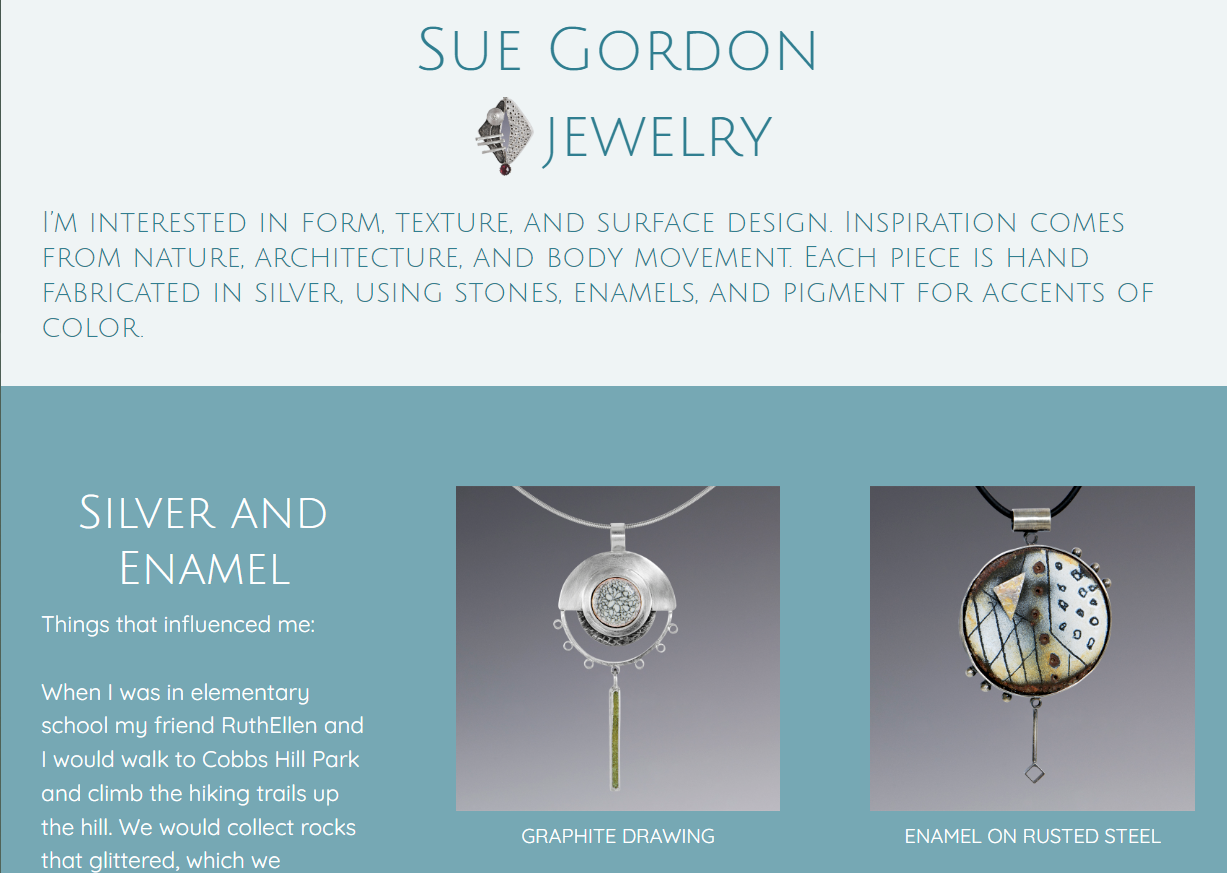
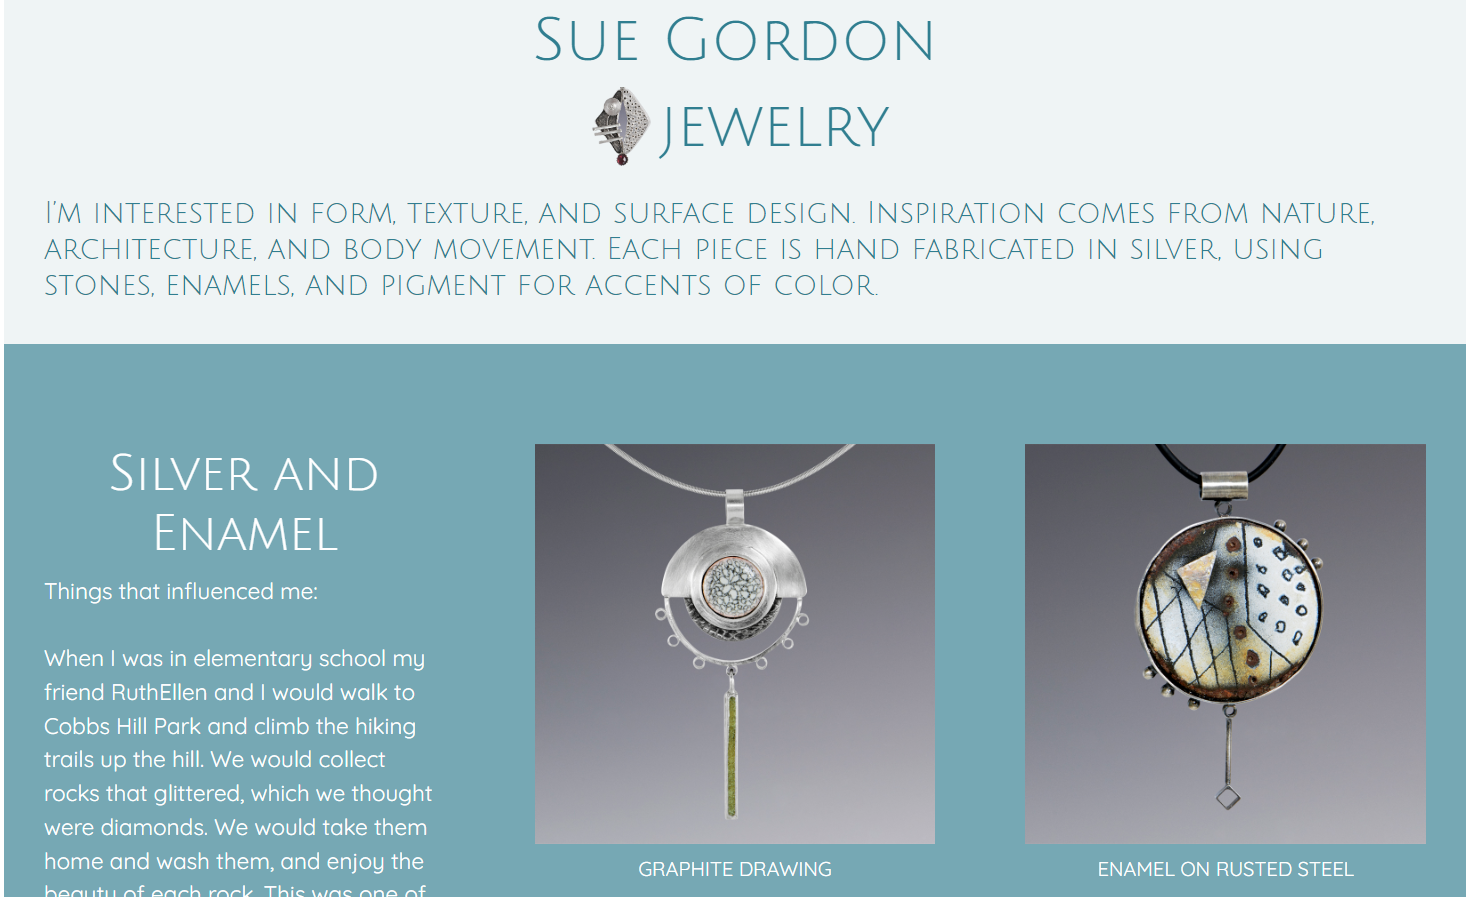
add two new website

Changed region(s): [[0.0, 0.0, 1.0, 1.0], [0.3407, 0.4948, 0.6504, 0.9897]]

diff --git a/index.html b/index.html
@@ -7,16 +7,19 @@
     <meta name="author" content="tosca ragnini"/>
     <link rel="icon" type="image/png" href="favicon.png" />
     <link href="css/main.css" rel="stylesheet" type="text/css">
+    <link rel="preconnect" href="https://fonts.googleapis.com">
+    <link rel="preconnect" href="https://fonts.gstatic.com" crossorigin>
+    <link href="https://fonts.googleapis.com/css2?family=Poiret+One&display=swap" rel="stylesheet">
     <link href="https://cdn.jsdelivr.net/npm/bootstrap@5.2.2/dist/css/bootstrap.min.css" rel="stylesheet" integrity="sha384-Zenh87qX5JnK2Jl0vWa8Ck2rdkQ2Bzep5IDxbcnCeuOxjzrPF/et3URy9Bv1WTRi" crossorigin="anonymous"> <link rel="stylesheet" href="https://fonts.googleapis.com/css?family=Raleway">
 </head>
-<body>
-    <div class="clearfix">           
-       <img src="img/ppw-baner.png" class="img-fluid d-block pt-5 mx-auto" alt="tosca Ragnini - web designer"> 
-   </div>
+<body>           
+     <img src="img/ppw-baner.png" class="img-fluid d-block pt-3 mx-auto" alt="tosca Ragnini - web designer"> 
     <div class="featured">
+        <img src="img/feature-banner.2022.png" class="img-fluid d-block pt-3 mx-auto" alt="tosca Ragnini - web designer"> 
+   
             <!--Lisa Ehrich-->
-            <section class="container pt-5">
-                <div class="row p-4 mt--2 mb-5">
+            <section class="container pt-4">
+                <div class="row p-4 mb-4">
                     <div class="col-sm-12 showcase-single-content shadow">
                         <div class="row" id="lisa">
                             <div class="col-sm-6 text-left showcase-single-item-wrap">
@@ -27,7 +30,7 @@
                                     </div>
                                 </div>
                             </div>
-                            <div class="col-sm-6 text-left mt-3 showcase-single-item-wrap">
+                            <div class="col-sm-6 text-left showcase-single-item-wrap">
                                 <div class="showcase-single-item">
                                     <div class="showcase-single-item-inner">
                                         <h3>website features</h3>
@@ -41,11 +44,10 @@
                             </div>
                         </div>
                     </div>
-                </div>           
-            </section>
-            <!--DRISCOLL-->
-            <section class="container">
-                <div class="row p-4 mb-5">
+                </div>
+                </section>           
+                <section class="container">
+                <div class="row p-4 mb-4">
                     <div class="col-sm-12 showcase-single-content shadow">
                         <div class="row" id="driscoll">
                             <div class="col-sm-6 text-left showcase-single-item-wrap">
@@ -75,7 +77,7 @@
             </section>   
             <!--RICKMAXWELL-->
             <section class="container">
-                <div class="row p-4 mb-5">
+                <div class="row p-4 mb-4">
                     <div class="col-sm-12 showcase-single-content shadow">
                         <div class="row" id="rick">
                             <div class="col-sm-6 text-left showcase-single-item-wrap">
@@ -104,7 +106,7 @@
             </section>       
             <!--Susan Mollet-->
             <section class="container">
-                <div class="row p-4 mb-5">
+                <div class="row p-4 mb-4">
                     <div class="col-sm-12 showcase-single-content shadow">
                         <div class="row" id="susan">
                             <div class="col-sm-6 text-left showcase-single-item-wrap">
@@ -131,7 +133,7 @@
             </section>    
             <!--NATALIE.MACELLAIO-->
             <section class="container">
-                <div class="row p-4 mb-5">
+                <div class="row p-4 mb-4">
                     <div class="col-sm-12 showcase-single-content shadow">
                         <div class="row" id="natalie">
                             <div class="col-sm-6 text-left showcase-single-item-wrap">
@@ -159,7 +161,7 @@
             </section>
             <!--MMC-->
             <section class="container">
-                <div class="row p-4 mb-5">
+                <div class="row p-4 mb-4">
                     <div class="col-sm-12 showcase-single-content shadow">
                         <div class="row" id="mmc">
                             <div class="col-sm-6 text-left showcase-single-item-wrap">
@@ -187,7 +189,7 @@
             </section> 
             <!--Marjorie-->
             <section class="container">
-                <div class="row p-4 mb-5">
+                <div class="row p-4 mb-4">
                     <div class="col-sm-12 showcase-single-content shadow">
                         <div class="row" id="marjorie">
                             <div class="col-sm-6 text-left showcase-single-item-wrap">
@@ -213,16 +215,16 @@
                     </div>
                 </div>
             </section>
-            <!--DeborahDinellBerry-->
-            <section class="container" >
-                <div class="row p-4 mb-5">
+             <!--Ellen Buie Niewyk-->
+             <section class="container" >
+                <div class="row p-4 mb-4">
                     <div class="col-sm-12 showcase-single-content shadow">
-                        <div class="row" id="deborah">
+                        <div class="row" id="ellen">
                             <div class="col-sm-6 text-left showcase-single-item-wrap">
                                 <div class="showcase-single-item">
                                     <div class="showcase-single-item-inner text-center">
-                                        <h1 class="font-wt">Deborah Dinell Berry</h1>
-                                        <img alt="deborah dinell berry - home page" src="img/deborah2.png" />
+                                        <h1 class="font-wt">Ellen Buie Niewyk</h1>
+                                        <img alt="ellen buie niewyk - home page" src="img/ellenneiwyk.png" />
                                     </div>
                                 </div>
                             </div>
@@ -230,9 +232,9 @@
                                 <div class="showcase-single-item">
                                     <div class="showcase-single-item-inner text-left">
                                         <h3>website features</h3>
-                                        <p>Deborah has been drawn to creating one-of-a kind functional pottery forms. Her personal website is a showcase of her ecclectic art. </p>
-                                        <p>SHOWCASE OF INDIVIDUAL FUNCTIONAL POTTERY</p>
-                                        <h4><a href="https://deborahdinellberry.com" class="link-secondary" target="_blank" rel="noopener" alt="deborahdinellberry.com">deborahdinellberry.com</a> -  2023</h4>
+                                        <p>Fossil and rock formations, found along the brazos river in Texas have inspired Ellen's jewelry designs. The stones in these settings come from all over the world. </p>
+                                        <p>Showcase for precious stones and rocks incased in artistic fine and sterling silver jewelry.</p>
+                                        <h4><a href="https://ellenbuieniewyk.com" class="link-secondary" target="_blank" rel="noopener" alt="ellenbuieniewyk.com">ellenbuieniewyk.com</a> -  2023</h4>
                                         <a href="#portfolio" class="px-3 text-center link-secondary"><p>[ Return to Top ]</p></a>
                                     </div>
                                 </div>
@@ -241,6 +243,35 @@
                     </div>
                 </div>
             </section>
+              <!--Sue Gordon-->
+              <section class="container" >
+                <div class="row p-4 mb-4">
+                    <div class="col-sm-12 showcase-single-content shadow">
+                        <div class="row" id="ellen">
+                            <div class="col-sm-6 text-left showcase-single-item-wrap">
+                                <div class="showcase-single-item">
+                                    <div class="showcase-single-item-inner text-center">
+                                        <h1 class="font-wt">Sue Gordon Jewelry</h1>
+                                        <img alt="sue gordon - home page" src="img/suegordon.png" />
+                                    </div>
+                                </div>
+                            </div>
+                            <div class="col-sm-6 text-left showcase-single-item-wrap">
+                                <div class="showcase-single-item">
+                                    <div class="showcase-single-item-inner text-left">
+                                        <h3>website features</h3>
+                                        <p> Sue brings her varied interests in form, texture, and surface design. Her inspiration comes from nature {mountains, sky, ocean},architecture {lines, angles, structure}, and body movement {bodies dancing, moving in space}. </p>
+                                        <p>Sue's website showcases her varied interests of silver with enamel, stones,and resin jewelry.</p>
+                                        <h4><a href="https://suegordonjewelry.com" class="link-secondary" target="_blank" rel="noopener" alt="suegordonjewelry.com">suegordonjewelry.com</a> -  2023</h4>
+                                        <a href="#portfolio" class="px-3 text-center link-secondary"><p>[ Return to Top ]</p></a>
+                                    </div>
+                                </div>
+                            </div>
+                        </div>
+                    </div>
+                </div>
+            </section>
+
     </div>          
     <footer>
             <div class="container">

diff --git a/css/main.css b/css/main.css
@@ -2,15 +2,21 @@ html, body {
 	width: auto!important;
 	overflow-x: hidden!important;
 }
-
+.poiret-one-regular {
+	font-family: "Poiret One", sans-serif;
+	font-weight: 400;
+	font-style: normal;
+  }  
 body { 
 	font-family: 'Open Sans', sans serif; 
 }
 .featured {
-	background-color:#e0e54c;
+	background-color:#dcd860;
 }
-.h1, h1 {
+.h1, h1, .h3, h3 {
+	font-family: "Poiret One", sans-serif;
 	font-weight: 400;
+	font-style: normal;
 }
 .about-me img{ 
 	padding: 10px;
